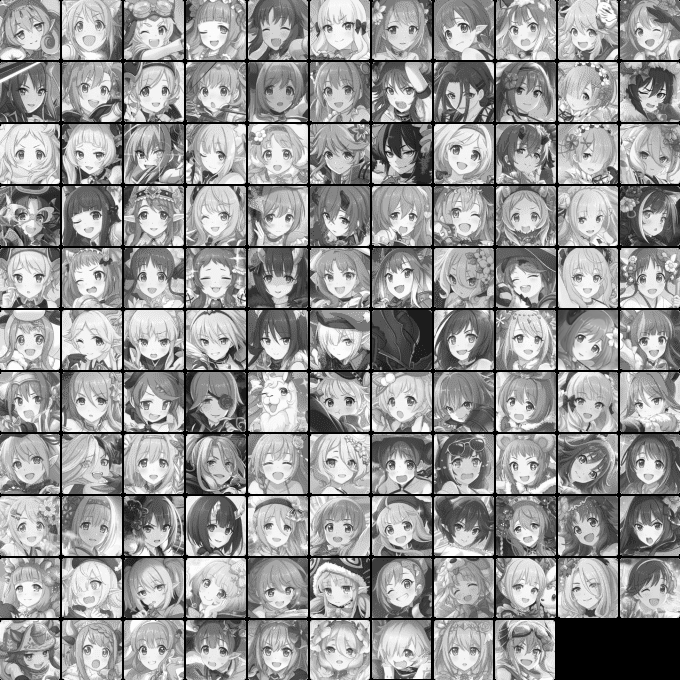
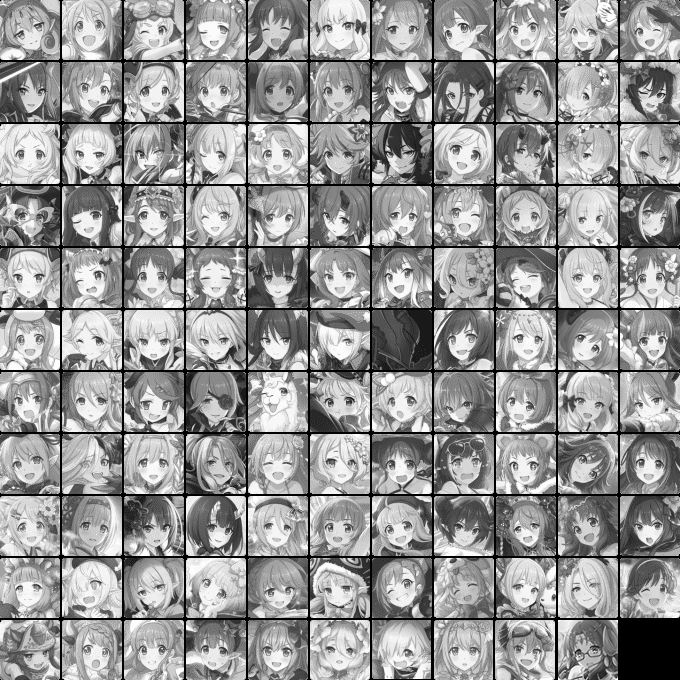
add character NeiNeika

Changed region(s): [[0.8029, 0.8956, 0.9265, 1.0]]

diff --git a/arena.py b/arena.py
@@ -22,7 +22,7 @@ character = {10000:'似似花',10001:'日和',10002:'茉莉',10003:'真步',1000
              10700:'亞里莎',10701:'嘉夜',10702:'優依',10703:'克莉絲緹娜',10704:'佩可(夏日)',10705:'可可蘿(夏日)',10706:'鈴苺(夏日)',10707:'凱留(夏日)',10708:'綾音(聖誕節)',10709:'真琴(夏日)',10710:'卯月',
              10800:'日和(新年)',10801:'優依(新年)',10802:'怜(新年)',10803:'惠理子(情人節)',10804:'靜流(情人節)',10805:'安',10806:'露',10807:'古蕾婭',10808:'空花(大江戶)',10809:'香織(夏日)',10810:'凜',
              10900:'真步(夏日)',10901:'碧(插班生)',10902:'克羅伊',10903:'琪愛兒',10904:'優妮',10905:'鏡華(萬聖節)',10906:'禊(萬聖節)',10907:'美美(萬聖節)',10908:'露娜',10909:'克(聖誕節)',10910:'本田',
-             11000:'鈴(巡者)',11001:'真陽(遊俠)',11002:'璃乃(奇幻)',11003:'步未(幻境)',11004:'佩可(公主型態)',11005:'可可蘿(公主型態)',11006:'祈梨',11007:'優依(公主型態)',11008:'杏奈(夏日)',
+             11000:'鈴(巡者)',11001:'真陽(遊俠)',11002:'璃乃(奇幻)',11003:'步未(幻境)',11004:'佩可(公主型態)',11005:'可可蘿(公主型態)',11006:'祈梨',11007:'優依(公主型態)',11008:'杏奈(夏日)',11009:'七七香(夏日)',
              30000:'優花梨(六星)',30001:'日和(六星)',30002:'璃乃(六星)',30003:'美冬(六星)',
              30100:'怜(六星)',30101:'真步(六星)',30102:'初音(六星)',30103:'莉瑪(六星)',
              30200:'伊緒(六星)',30201:'優依(六星)',30202:'珠希(六星)',30203:'佩可(六星)',
@@ -34,7 +34,7 @@ character_loc = [10604, 30103, 10200, 10306, 10506, 10808, 10004, 10802, 10810, 
                  10101, 10401, 10906, 10406, 30202, 10503, 10903, 10008, 10404, 10704, 
                  10304, 10207, 10100, 30100, 10110, 11008, 10909, 10601, 30302, 10703, 10608, 
                  10204, 10305, 10907, 10710, 10804, 11001, 10500, 10501, 30000, 10605, 
-                 10205, 10010, 10600, 30003, 11000, 10206, 10809, 10005, 10202, 10208, 
+                 10205, 10010, 10600, 30003, 11000, 10206, 10809, 10005, 10202, 10208, 11009,
                  10108, 10407, 30300, 11003, 10007, 10807, 10705, 10109, 10209, 10403, 
                  11005, 10603, 10102, 10400, 10609, 10308, 10700, 10805, 10806, 10000, 
                  10901, 10310, 10910, 10103, 30002, 10303, 10409, 10504, 10610, 10104, 
@@ -49,7 +49,7 @@ character_nickname = {'羊駝':10604, '六星羊駝':30103, '布丁':10200, '空
                       '炸彈人':10101, '熊槌':10401, '萬聖炸彈':10906, '珠希':10406, '六星珠希':30202, '智':10503, '切嚕':10903, '泳貓':10008, '病嬌':10404, '泳飯':10704,
                       '鈴鐺':10304, '吉塔':10207, '怜':10100, '六星怜':30100, '聖伊':10110, '泳中二':11008, '聖克':10909, '靜流': 10601, '六星靜流': 30302, '克總':10703, '聖誕鈴鐺':10608, 
                       '美美':10204, '忍':10305, '萬兔':10907, '卯月':10710, '情姊':10804, '自衛牛':11001, '真陽':10500, '酒鬼':10501, '六星酒鬼':30000, '莫妮卡':10605, 
-                      '扇子':10205, '聖誕望':10010, '美冬':10600, '六星美冬':30003, '自衛鈴':11000, '伊莉亞':10206, '泳狗':10809, '咲戀':10005, '中二':10202, '萬聖忍':10208, 
+                      '扇子':10205, '聖誕望':10010, '美冬':10600, '六星美冬':30003, '自衛鈴':11000, '伊莉亞':10206, '泳狗':10809, '咲戀':10005, '中二':10202, '萬聖忍':10208, '泳七七':11009,
                       '泳美冬':10108, '可蘿':10407, '六星可蘿':30300, '奇幻路人':11003, '路人':10007, '龍女':10807, '泳可':10705, '蕾姆':10109, '拉姆':10209, '鈴':10403, 
                       '公可':11005, '深月':10603, '妹法':10102, '姊法':10400, '泳咲':10609, '萬布丁':10308, '亞里莎':10700, '安':10805, '露':10806, '似似花':10000,
                       '插班碧':10901, '新黑':10310, '本田':10910, '妹弓':10103, '六星妹弓':30002, '爆弓':10303, '泳爆':10409, '病弓':10504, '魔弓':10610, '老師':10104, 
